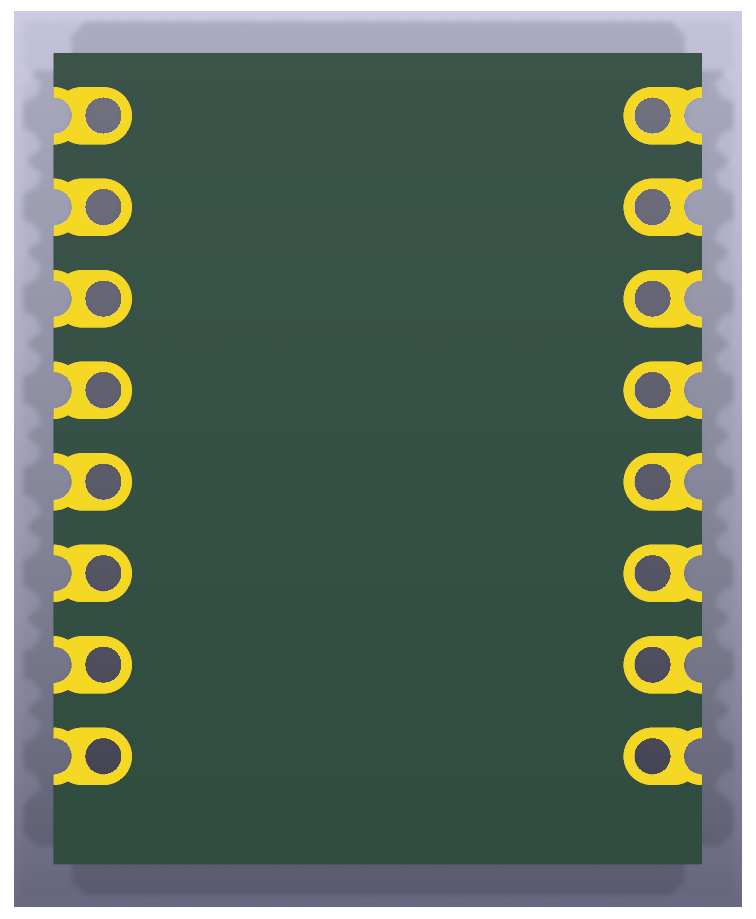
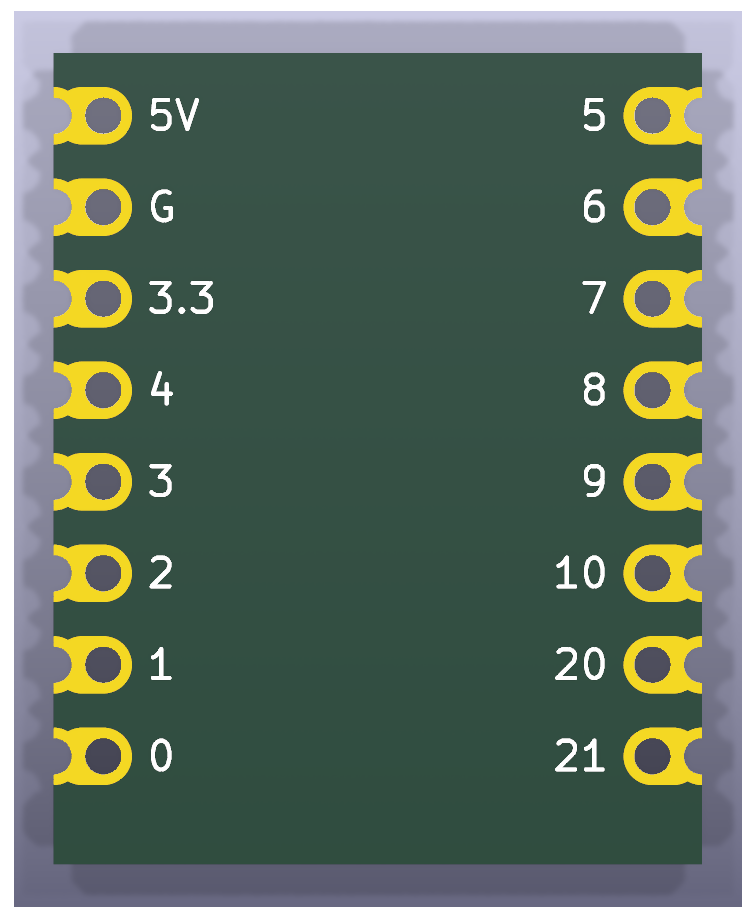
SuperMini board: pin-name silk on the back as well as the front
Every pad on the ESP32-C3 SuperMini replica now carries its printed name
(5V, G, 3.3, 4..0 / 5..10, 20, 21) on both silk layers.  The back copies
share the front anchors and are mirrored with left/right justification
swapped, so each still sits inboard of its own pad when read from the back.

Claude-Session: https://claude.ai/code/session_01JoGdh4Cg3VtTTDZi4gQuiN

diff --git a/scripts/generate_supermini.py b/scripts/generate_supermini.py
@@ -91,11 +91,18 @@ def build() -> Design:
     d.parts.append(Part("J2", header("right"), (bx + BOARD_W - PIN_EDGE_X, by + PIN_TOP_Y), conn, "Conn_01x08", {str(i + 1): n for i, n in enumerate(RIGHT_PINS)}, (127.0, 101.6), "Right header"))
 
     g = d.graphics
+    # Pin names (as printed on the SuperMini) beside every pad on both sides.
+    # Back copies share the anchor and are mirrored with the justification
+    # swapped so they still sit inboard of their pad when read from the back.
     label_in = PIN_EDGE_X + PAD_W / 2 + 0.35
     for i, t in enumerate(LEFT_SILK):
-        g.append(gr_text(f"silkL{i}", t, bx + label_in, by + PIN_TOP_Y + i * PITCH, "F.SilkS", 0.8, "left"))
+        y = by + PIN_TOP_Y + i * PITCH
+        g.append(gr_text(f"silkL{i}", t, bx + label_in, y, "F.SilkS", 0.8, "left"))
+        g.append(gr_text(f"silkL{i}:b", t, bx + label_in, y, "B.SilkS", 0.8, "right mirror"))
     for i, t in enumerate(RIGHT_SILK):
-        g.append(gr_text(f"silkR{i}", t, bx + BOARD_W - label_in, by + PIN_TOP_Y + i * PITCH, "F.SilkS", 0.8, "right"))
+        y = by + PIN_TOP_Y + i * PITCH
+        g.append(gr_text(f"silkR{i}", t, bx + BOARD_W - label_in, y, "F.SilkS", 0.8, "right"))
+        g.append(gr_text(f"silkR{i}:b", t, bx + BOARD_W - label_in, y, "B.SilkS", 0.8, "left mirror"))
     # Reference geometry of the original board on F.Fab (from the STEP model).
     usb_w = 9.0
     g.append(gr_rect("usb", bx + (BOARD_W - usb_w) / 2, by - 1.5, bx + (BOARD_W + usb_w) / 2, by + 5.85, "F.Fab", 0.1, "dash"))
